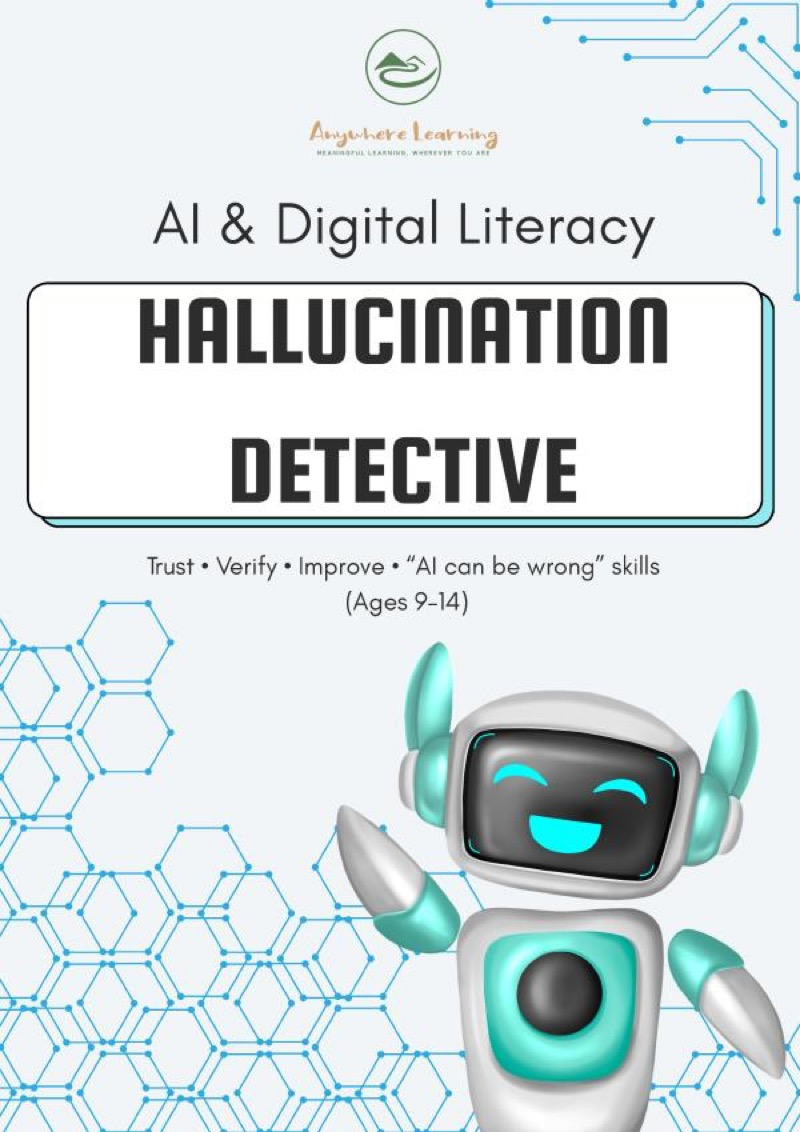
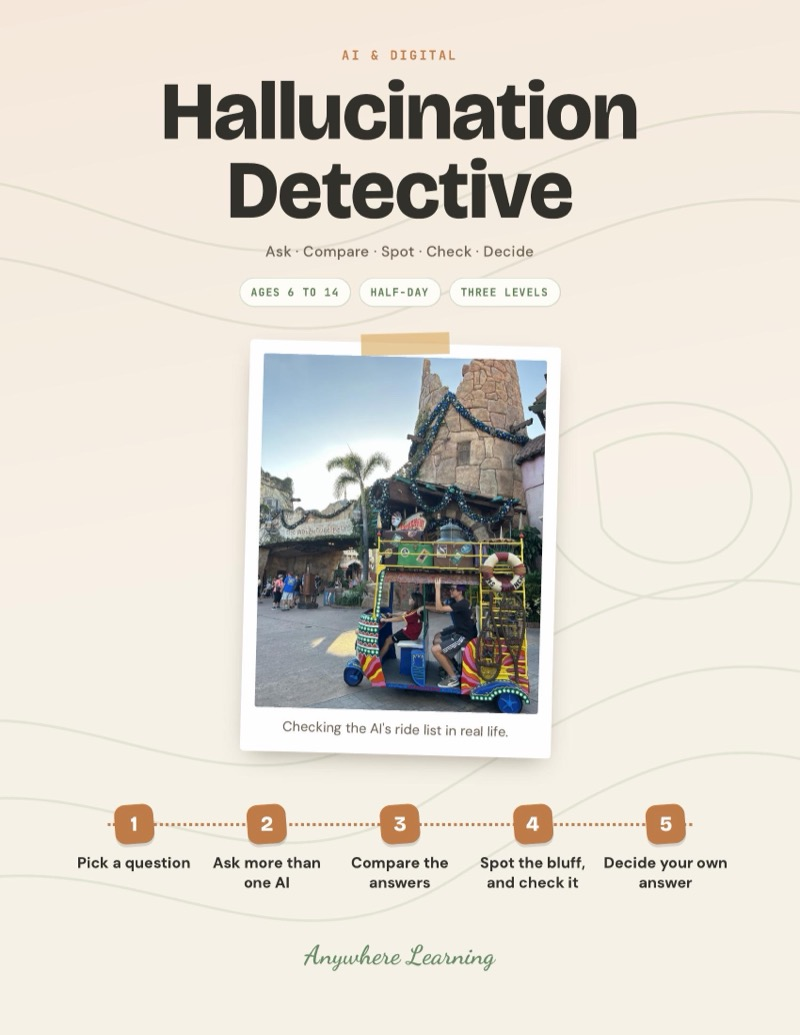
Hallucination Detective: redesigned guide absorbing Three AIs One Question, Universal rides motion sickness story, tuk-tuk photo, ages 6-14; retire Three AIs with redirect

diff --git a/scripts/seed.ts b/scripts/seed.ts
@@ -67,7 +67,7 @@ async function seed() {
     { name: 'Build Your Own AI Helper', slug: 'build-ai-helper', description: 'Design and prototype an AI tool.', shortDescription: 'Design an AI helper.', priceCents: 599, compareAtPriceCents: null, stripePriceId: 'price_1TFcTgAMzOBftCnt2rlB7hz4', blobUrl: '', imageUrl: '/products/build-ai-helper.jpg', category: 'ai-literacy', isBundle: false, bundleProductIds: null, activityCount: null, ageRange: 'Ages 9\u201314', sortOrder: 73, active: true },
     { name: 'Create with AI, Ethically', slug: 'create-with-ai', description: 'Use AI as a creative partner ethically.', shortDescription: 'Ethical AI creativity.', priceCents: 599, compareAtPriceCents: null, stripePriceId: 'price_1TFcThAMzOBftCnt9kE7d4xI', blobUrl: '', imageUrl: '/products/create-with-ai.jpg', category: 'ai-literacy', isBundle: false, bundleProductIds: null, activityCount: null, ageRange: 'Ages 9\u201314', sortOrder: 74, active: true },
     { name: 'Deepfake & Manipulation Spotter', slug: 'deepfake-spotter', description: 'Spot manipulated media and deepfakes.', shortDescription: 'Deepfake detection skills.', priceCents: 599, compareAtPriceCents: null, stripePriceId: 'price_1TFcThAMzOBftCntXZfm3eqs', blobUrl: '', imageUrl: '/products/deepfake-spotter.jpg', category: 'ai-literacy', isBundle: false, bundleProductIds: null, activityCount: null, ageRange: 'Ages 9\u201314', sortOrder: 75, active: true },
-    { name: 'Hallucination Detective', slug: 'hallucination-detective', description: 'Catch when AI gets things wrong.', shortDescription: 'AI fact-checking skills.', priceCents: 599, compareAtPriceCents: null, stripePriceId: 'price_1TFcThAMzOBftCnthpXo1GG3', blobUrl: '', imageUrl: '/products/hallucination-detective.jpg', category: 'ai-literacy', isBundle: false, bundleProductIds: null, activityCount: null, ageRange: 'Ages 9\u201314', sortOrder: 76, active: true },
+    { name: 'Hallucination Detective', slug: 'hallucination-detective', description: 'Your kid learns that AI can sound sure and still be wrong. They ask two or three AI tools the exact same question, compare the answers, spot where they disagree or make things up, check against real sources and decide on an answer of their own they can trust.', shortDescription: 'AI literacy for kids ages 6-14: ask two or three AI tools the same question, compare the answers, check real sources and catch the AI when it bluffs.', priceCents: 599, compareAtPriceCents: null, stripePriceId: 'price_1TFcThAMzOBftCnthpXo1GG3', blobUrl: '', imageUrl: '/products/hallucination-detective.jpg', category: 'ai-literacy', isBundle: false, bundleProductIds: null, activityCount: null, ageRange: 'Ages 9\u201314', sortOrder: 76, active: true },
     { name: 'Healthy Tech & AI Boundaries', slug: 'healthy-tech-boundaries', description: 'Build healthy boundaries with technology.', shortDescription: 'Healthy tech boundaries.', priceCents: 599, compareAtPriceCents: null, stripePriceId: 'price_1TFcTiAMzOBftCntLgtp68hD', blobUrl: '', imageUrl: '/products/healthy-tech-boundaries.jpg', category: 'ai-literacy', isBundle: false, bundleProductIds: null, activityCount: null, ageRange: 'Ages 9\u201314', sortOrder: 77, active: true },
     { name: 'Privacy & Digital Footprint Map', slug: 'privacy-footprint', description: 'Understand and manage your digital footprint.', shortDescription: 'Digital privacy skills.', priceCents: 599, compareAtPriceCents: null, stripePriceId: 'price_1TFcTiAMzOBftCntrpKs7RZt', blobUrl: '', imageUrl: '/products/privacy-footprint.jpg', category: 'ai-literacy', isBundle: false, bundleProductIds: null, activityCount: null, ageRange: 'Ages 9\u201314', sortOrder: 78, active: true },
     { name: 'Prompt Like a Coach', slug: 'prompt-like-a-coach', description: 'Master the art of talking to AI effectively.', shortDescription: 'AI prompt skills.', priceCents: 599, compareAtPriceCents: null, stripePriceId: 'price_1TFcTjAMzOBftCntIAAq45jj', blobUrl: '', imageUrl: '/products/prompt-like-a-coach.jpg', category: 'ai-literacy', isBundle: false, bundleProductIds: null, activityCount: null, ageRange: 'Ages 9\u201314', sortOrder: 79, active: true },
@@ -155,7 +155,7 @@ async function seed() {
     { name: 'Square Foot Safari', slug: 'square-foot-safari', description: 'Your child marks off one small square of ground and studies it like a field scientist. They observe closely, dig into the layers, keep real field notes, and return across seasons to see what changed. Real-world STEM science, done in your own backyard. Field scientists call it a quadrat study.', shortDescription: 'Outdoor STEM science for kids ages 6-14: mark off one square of ground and study every living thing in it, like a real field scientist.', priceCents: 599, compareAtPriceCents: null, stripePriceId: '', blobUrl: '', imageUrl: '/products/square-foot-safari.jpg', category: 'outdoor-learning', isBundle: false, bundleProductIds: null, activityCount: null, ageRange: 'Ages 6–14', sortOrder: 27, active: true },
     { name: 'The $20 Snack Mission', slug: 'snack-mission', description: 'Your child takes a real budget, a real store, and a real mission, then does the maths that decides what comes home. They plan, track a running total, make trade-offs, and count the change. Real-world STEM maths that sticks, because the numbers point at something they actually care about.', shortDescription: 'Real-world STEM maths for kids ages 6-14: a real budget, a real store, real trade-offs. Plan, track the total, and make the money work.', priceCents: 599, compareAtPriceCents: null, stripePriceId: '', blobUrl: '', imageUrl: '/products/snack-mission.jpg', category: 'real-world-math', isBundle: false, bundleProductIds: null, activityCount: null, ageRange: 'Ages 6–14', sortOrder: 113, active: true },
     { name: 'Household Orchestra', slug: 'household-orchestra', description: 'Your child builds a piece of music from five household objects. No instruments, no lessons. They find every sound each object can make, sort them high to low, build a steady beat with layers on top, shape it into a piece with a beginning and an end, then perform it for the family. Real creativity, with the science of pitch built in.', shortDescription: 'Creativity for kids ages 6-14: turn five household objects into real music, from finding sounds to a family performance.', priceCents: 599, compareAtPriceCents: null, stripePriceId: '', blobUrl: '', imageUrl: '/products/household-orchestra.jpg', category: 'creativity-maker', isBundle: false, bundleProductIds: null, activityCount: null, ageRange: 'Ages 6–14', sortOrder: 41, active: true },
-    { name: 'Three AIs, One Question', slug: 'three-ais-one-question', description: 'Ask the same question to three AI tools, compare the answers, and figure out where the AI is bluffing. Done together at the keyboard.', shortDescription: 'AI literacy: ask three AIs one question and catch the bluff.', priceCents: 599, compareAtPriceCents: null, stripePriceId: '', blobUrl: '', imageUrl: '/products/three-ais-one-question.jpg', category: 'ai-literacy', isBundle: false, bundleProductIds: null, activityCount: null, ageRange: 'Ages 9\u201314', sortOrder: 81, active: true },
+    { name: 'Three AIs, One Question', slug: 'three-ais-one-question', description: 'Ask the same question to three AI tools, compare the answers, and figure out where the AI is bluffing. Done together at the keyboard.', shortDescription: 'AI literacy: ask three AIs one question and catch the bluff.', priceCents: 599, compareAtPriceCents: null, stripePriceId: '', blobUrl: '', imageUrl: '/products/three-ais-one-question.jpg', category: 'ai-literacy', isBundle: false, bundleProductIds: null, activityCount: null, ageRange: 'Ages 9\u201314', sortOrder: 81, active: false },
     { name: 'Complaint to Product', slug: 'complaint-to-product', description: 'Your child designs a product for someone else, not just for themselves. They collect complaints from real people, find the one that keeps coming up and build a rough model from cardboard. Then they watch the people who complained try it without explaining, fix what went wrong and find out if anyone would really choose it.', shortDescription: 'Entrepreneurship for kids ages 6-14: turn complaints from real people into a cardboard prototype, then test it with them.', priceCents: 599, compareAtPriceCents: null, stripePriceId: '', blobUrl: '', imageUrl: '/products/complaint-to-product.jpg', category: 'entrepreneurship', isBundle: false, bundleProductIds: null, activityCount: null, ageRange: 'Ages 6–14', sortOrder: 131, active: true },
     { name: 'The Two-Minute Story', slug: 'two-minute-story', description: 'Your child takes a real moment from their own life and learns to tell it as a clear, gripping story in two minutes. They find the shape, cut it to the bone, and tell it for real.', shortDescription: 'Communication for kids ages 6-14: turn a real moment into a clear, gripping two-minute story, then tell it for real.', priceCents: 599, compareAtPriceCents: null, stripePriceId: '', blobUrl: '', imageUrl: '/products/two-minute-story.jpg', category: 'communication-writing', isBundle: false, bundleProductIds: null, activityCount: null, ageRange: 'Ages 6–14', sortOrder: 121, active: true },
     { name: 'Plan a Mini Adventure', slug: 'plan-a-mini-adventure', description: 'Plan a real two-hour family outing from start to finish, then lead the day. Choose it, work out the details, make the plan, and look back.', shortDescription: 'Planning: plan and lead a real two-hour family outing.', priceCents: 599, compareAtPriceCents: null, stripePriceId: '', blobUrl: '', imageUrl: '/products/plan-a-mini-adventure.jpg', category: 'planning-problem-solving', isBundle: false, bundleProductIds: null, activityCount: null, ageRange: 'Ages 6\u201314', sortOrder: 144, active: false },

diff --git a/lib/product-descriptions.ts b/lib/product-descriptions.ts
@@ -1413,21 +1413,24 @@ export const productDescriptions: Record<string, ProductDescription> = {
   },
   'hallucination-detective': {
     opening:
-      'Investigation activities that teach kids to spot when AI gets things wrong. Kids learn about AI hallucinations, practise verifying AI outputs, understand why AI makes confident mistakes, and develop the habit of always checking before trusting. Healthy scepticism for the AI age.',
+      'Your kid learns that AI can sound sure and still be wrong. They ask two or three AI tools the exact same question, compare the answers, spot where they disagree or make things up, check against real sources and decide on an answer of their own they can trust.',
     whatsIncluded: [
-      'What AI hallucinations are and why they happen',
-      'Fact-checking AI outputs: practical techniques',
-      'Why AI sounds confident even when wrong',
-      'Verification habit building',
-      'Real examples of AI mistakes to investigate',
+      'Five steps, from picking a real question to deciding your own answer',
+      'Good questions, Compare, Spot the bluff and Check it cards',
+      'A worked example: two AIs ranking theme park rides by motion sickness',
+      'A safe setup: a grown-up\'s account, no personal details in prompts',
+      'Three levels per step, from ages 6 to 14',
     ],
-    skillTags: ['STEM', 'Critical Thinking', 'AI Literacy', 'Research', 'Verification'],
+    skillTags: ['AI Literacy', 'Critical Thinking', 'Research', 'Media Literacy', 'Healthy Skepticism'],
     insideTheLearning: {
       lead:
-        'Your child gets an AI to state something confidently and wrong, then proves it. That is the whole hook. They cross-check sources, learn why a system sounds certain when it has no idea, and build the habit of verifying before believing.',
+        'AI tools write answers that sound sure, even when they are guessing, and two tools can give two different answers to the same question. Your kid learns to ask more than one, compare, check the claims that matter against real sources, and end with an answer they can trust.',
       skills: [
-        { skill: 'Critical Thinking', where: 'Healthy scepticism plus real verification, cross-checking a claim against other sources' },
-        { skill: 'Writing', where: 'Asking better follow-up questions and revising their own work into a second version' },
+        { skill: 'AI Literacy', where: 'Seeing why AI sounds confident even when it is wrong' },
+        { skill: 'Critical Thinking', where: 'Comparing answers and spotting what only one AI claims' },
+        { skill: 'Research', where: 'Checking claims against official sites, photos and videos' },
+        { skill: 'Media Literacy', where: 'Spotting the signs of a bluff: too sure, too exact, made up' },
+        { skill: 'Healthy Skepticism', where: 'Making how do we know a habit, not a worry' },
       ],
     },
     format: 'Project Guide',

diff --git a/lib/fallback-products.ts b/lib/fallback-products.ts
@@ -950,20 +950,20 @@ export const fallbackProducts: FallbackProduct[] = [
     name: "Hallucination Detective",
     slug: "hallucination-detective",
     description:
-      "Investigation activities that teach kids to spot when AI gets things wrong. Kids learn about AI hallucinations, practise verifying AI outputs, understand why AI makes confident mistakes, and develop the habit of always checking before trusting. STEM technology literacy meets investigative thinking. Trust, verify, and improve.",
+      "Your kid learns that AI can sound sure and still be wrong. They ask two or three AI tools the exact same question, compare the answers, spot where they disagree or make things up, check against real sources and decide on an answer of their own they can trust.",
     shortDescription:
-      "STEM technology activity for kids ages 9-14: spot when AI gets things wrong, verify facts, and build critical trust in tech.",
+      "AI literacy for kids ages 6-14: ask two or three AI tools the same question, compare the answers, check real sources and catch the AI when it bluffs.",
     priceCents: 599,
     compareAtPriceCents: null,
     stripePriceId: "price_1TLrq9AkIBECpwGm1T5rkWKf",
     blobUrl: "",
-    imageUrl: "/products/hallucination-detective.jpg",
-    previewFile: "Preview AI + Digital Literacy - HALLUCINATION DETECTIVE.pdf",
+    imageUrl: "/products/hallucination-detective.jpg?v=2",
+    previewFile: "Preview AI & Digital Literacy - HALLUCINATION DETECTIVE v3.pdf",
     category: "ai-literacy",
     isBundle: false,
     bundleProductIds: null,
     activityCount: null,
-    ageRange: "Ages 9–14",
+    ageRange: "Ages 6–14",
     sortOrder: 76,
     active: true,
     createdAt: new Date("2025-03-01"),
@@ -2632,7 +2632,7 @@ export const fallbackProducts: FallbackProduct[] = [
     activityCount: null,
     ageRange: "Ages 9–14",
     sortOrder: 81,
-    active: true,
+    active: false,
     createdAt: new Date("2026-06-26"),
   },
   {

diff --git a/lib/roadmap.ts b/lib/roadmap.ts
@@ -83,7 +83,7 @@ export const TERRITORIES: readonly Territory[] = [
       ],
     },
     activities: [
-      'media-info-check', 'three-ais-one-question', 'bias-fairness-lab',
+      'media-info-check', 'bias-fairness-lab',
       'hallucination-detective', 'deepfake-spotter', 'algorithm-awareness', 'supply-chain-detective',
     ],
   },
@@ -164,7 +164,7 @@ export const TERRITORIES: readonly Territory[] = [
       'media-info-check', 'complaint-to-product', 'what-if-scenario-lab', 'rube-goldberg-machine',
       'decomposition-detective', 'supply-chain-detective', 'seed-travelers', 'hallucination-detective',
       'family-debate-night', 'bias-fairness-lab', 'comeback-journal',
-      'pricing-experiment', 'camouflage-challenge', 'problem-solver', 'three-ais-one-question',
+      'pricing-experiment', 'camouflage-challenge', 'problem-solver',
     ],
   },
   {
@@ -190,7 +190,7 @@ export const TERRITORIES: readonly Territory[] = [
     activities: [
       'ai-basics', 'prompt-like-a-coach', 'create-with-ai', 'build-ai-helper', 'privacy-footprint',
       'deepfake-spotter', 'healthy-tech-boundaries', 'algorithm-awareness', 'media-info-check',
-      'hallucination-detective', 'three-ais-one-question',
+      'hallucination-detective',
     ],
   },
   {
@@ -484,7 +484,6 @@ const PRIMARY_AREA_OVERRIDE: Record<string, string> = {
   'algorithm-awareness': 'ai-digital',
   'deepfake-spotter': 'ai-digital',
   'hallucination-detective': 'ai-digital',
-  'three-ais-one-question': 'ai-digital',
   'bias-fairness-lab': 'ai-digital',
   'prompt-like-a-coach': 'ai-digital',
   // Entrepreneurship activities → a more business-forward lead than the

diff --git a/lib/skills.ts b/lib/skills.ts
@@ -73,7 +73,7 @@ export const productSkills: Record<string, ProductSkills> = {
   "fix-it-detective": { canonical: ["Problem-Solving","Life Skills","Critical Thinking","Planning","Practical Skills"], families: ["critical-thinking-and-reasoning","planning-and-self-management"] },
   "garage-sale-math": { canonical: ["Money Handling","Pricing","Percentages","Multiplication","Entrepreneurship"], families: ["entrepreneurship-and-money","math-and-money"] },
   "garden-plot-planner": { canonical: ["STEM","Geometry","Measurement","Budgeting","Science","Planning"], families: ["critical-thinking-and-reasoning","math-and-money","nature-and-science"] },
-  "hallucination-detective": { canonical: ["Critical Thinking","Writing"], families: ["communication-and-writing","critical-thinking-and-reasoning"] },
+  "hallucination-detective": { canonical: ["AI Literacy","Critical Thinking","Research","Media Literacy"], families: ["tech-and-digital","critical-thinking-and-reasoning"] },
   "healthy-tech-boundaries": { canonical: ["Decision-Making","Digital Citizenship","Engineering","Reflection","Self-Direction"], families: ["creativity-and-making","critical-thinking-and-reasoning","planning-and-self-management","tech-and-digital"] },
   "imaginary-world": { canonical: ["Writing","Art","Geography","Worldbuilding","Imagination"], families: ["communication-and-writing","creativity-and-making","critical-thinking-and-reasoning"] },
   "invent-a-sport": { canonical: ["Design Thinking","Writing","Physical Literacy","Problem-Solving","Creativity"], families: ["communication-and-writing","creativity-and-making","empathy-and-people","math-and-money","tech-and-digital"] },

diff --git a/scripts/create-stripe-products.ts b/scripts/create-stripe-products.ts
@@ -54,7 +54,7 @@ const catalog = [
   { slug: 'build-ai-helper', name: 'Build Your Own AI Helper', priceCents: 599, description: 'Design and prototype an AI tool that solves a real problem.' },
   { slug: 'create-with-ai', name: 'Create with AI, Ethically', priceCents: 599, description: 'Use AI as a creative partner while understanding the ethics.' },
   { slug: 'deepfake-spotter', name: 'Deepfake & Manipulation Spotter', priceCents: 599, description: 'Spot manipulated media and understand deepfake technology.' },
-  { slug: 'hallucination-detective', name: 'Hallucination Detective', priceCents: 599, description: 'Catch when AI gets things wrong. Fact-check AI outputs.' },
+  { slug: 'hallucination-detective', name: 'Hallucination Detective', priceCents: 599, description: 'AI literacy for kids ages 6-14: ask two or three AI tools the same question, compare the answers, check real sources and catch the AI when it bluffs.' },
   { slug: 'healthy-tech-boundaries', name: 'Healthy Tech & AI Boundaries', priceCents: 599, description: 'Build healthy boundaries with technology and AI tools.' },
   { slug: 'privacy-footprint', name: 'Privacy & Digital Footprint Map', priceCents: 599, description: 'Understand and manage your digital footprint and privacy.' },
   { slug: 'prompt-like-a-coach', name: 'Prompt Like a Coach', priceCents: 599, description: 'Master the art of talking to AI effectively.' },

diff --git a/lib/activity-blob-urls.ts b/lib/activity-blob-urls.ts
@@ -56,7 +56,7 @@ export const ACTIVITY_BLOB_URLS: Record<string, string> = {
   "garage-sale-math": "https://xkj3tzlgu6ylgllk.public.blob.vercel-storage.com/Real-world%20math%20-%20Garage%20sale%20math%20v7.pdf",
   "garden-plot-planner": "https://xkj3tzlgu6ylgllk.public.blob.vercel-storage.com/Real-world%20math%20-%20Garden%20Plot%20Planner%20v6.pdf",
   "grow-it-eat-it": "https://xkj3tzlgu6ylgllk.public.blob.vercel-storage.com/Outdoor%20%26%20Nature%20-%20GROW%20IT%2C%20EAT%20IT%20v5.pdf",
-  "hallucination-detective": "https://xkj3tzlgu6ylgllk.public.blob.vercel-storage.com/AI%20%26%20Digital%20Literacy%20-%20HALLUCINATION%20DETECTIVE%20v2.pdf",
+  "hallucination-detective": "https://xkj3tzlgu6ylgllk.public.blob.vercel-storage.com/AI%20%26%20Digital%20Literacy%20-%20HALLUCINATION%20DETECTIVE%20v3.pdf",
   "hard-thing-challenge": "https://xkj3tzlgu6ylgllk.public.blob.vercel-storage.com/Emotional%20%26%20Social%20Skills%20-%20The%20Hard%20Thing%20Challenge%20v7.pdf",
   "healthy-tech-boundaries": "https://xkj3tzlgu6ylgllk.public.blob.vercel-storage.com/AI%20%26%20Digital%20Literacy%20-%20HEALTHY%20TECH%20%26%20AI%20BOUNDARIES%20PLAN%20v2.pdf",
   "household-orchestra": "https://xkj3tzlgu6ylgllk.public.blob.vercel-storage.com/Creativity%20%26%20Maker%20Household%20Orchestra%20v5.pdf",

diff --git a/next.config.ts b/next.config.ts
@@ -121,6 +121,9 @@ const nextConfig: NextConfig = {
       { source: "/shop/disappointment-lab", destination: "/shop/comeback-journal", permanent: true },
       { source: "/shop/repair-conversation", destination: "/shop/conflict-fix", permanent: true },
 
+      // Retired Nov 2026: AI & Digital pass.
+      { source: "/shop/three-ais-one-question", destination: "/shop/hallucination-detective", permanent: true },
+
       // Retired Nov 2026: Worldschooling pass.
       { source: "/shop/currency-market-math", destination: "/shop/farmers-market-challenge", permanent: true },
       { source: "/shop/people-stories-interview", destination: "/shop/neighbourhood-interview", permanent: true },
